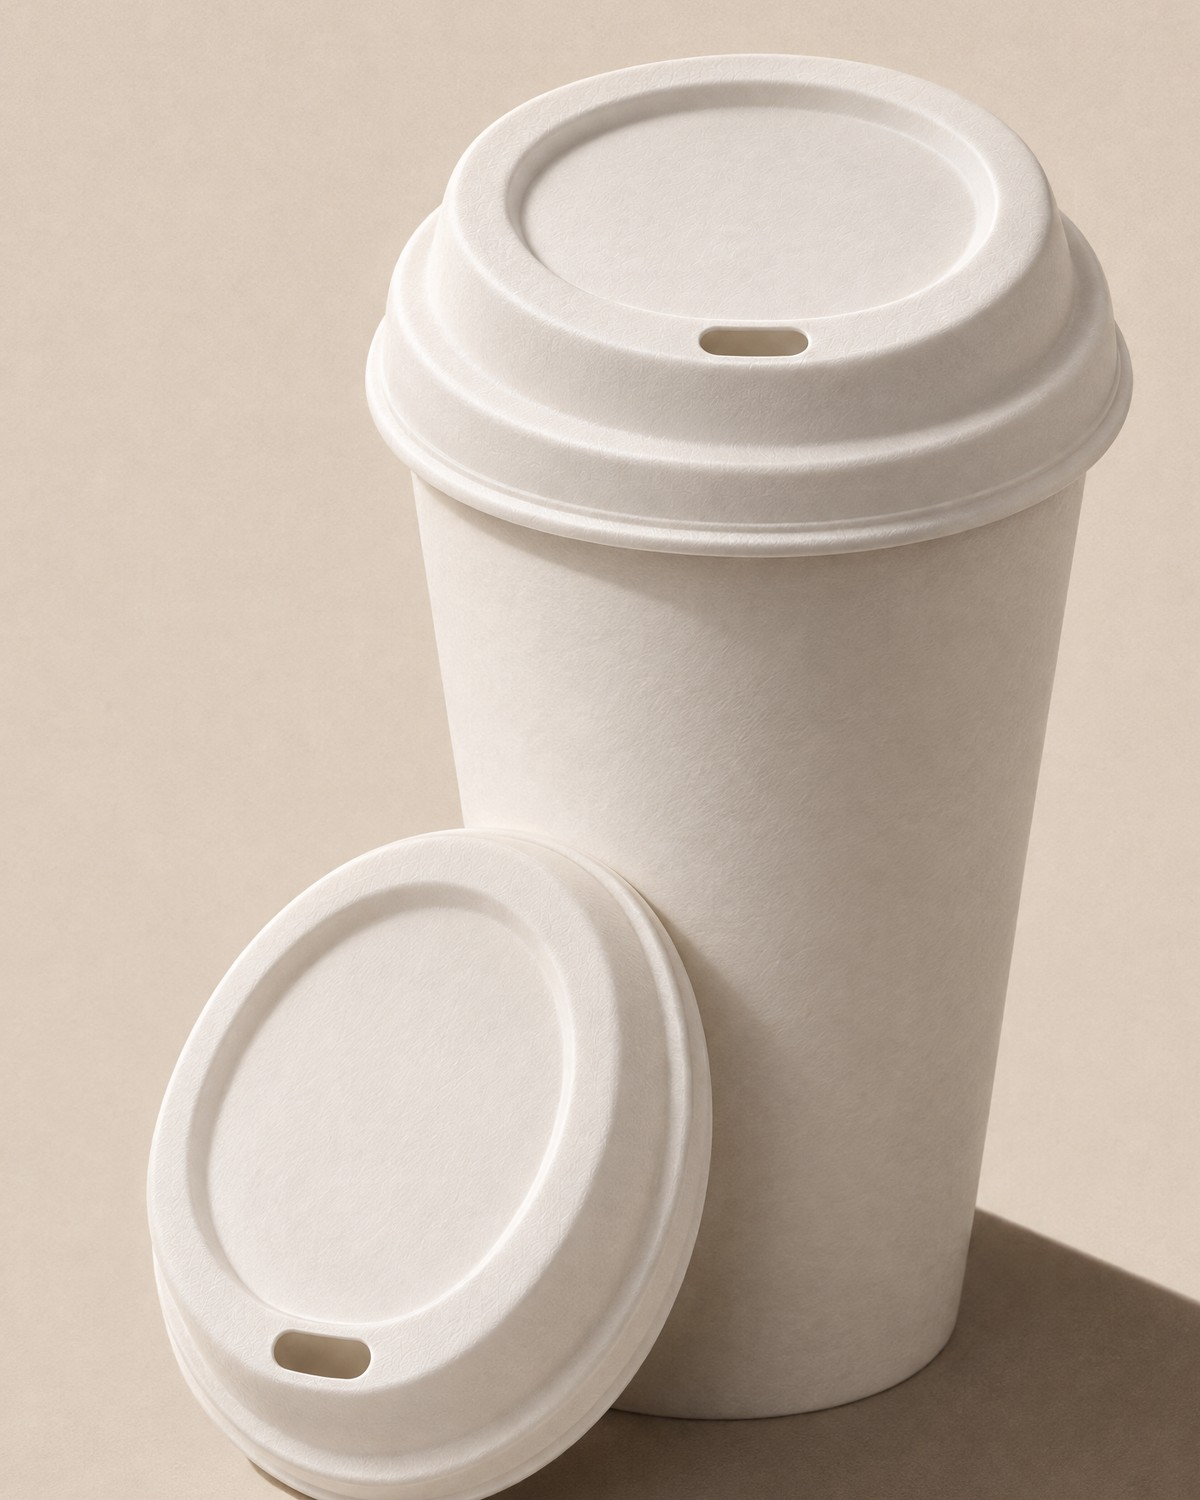
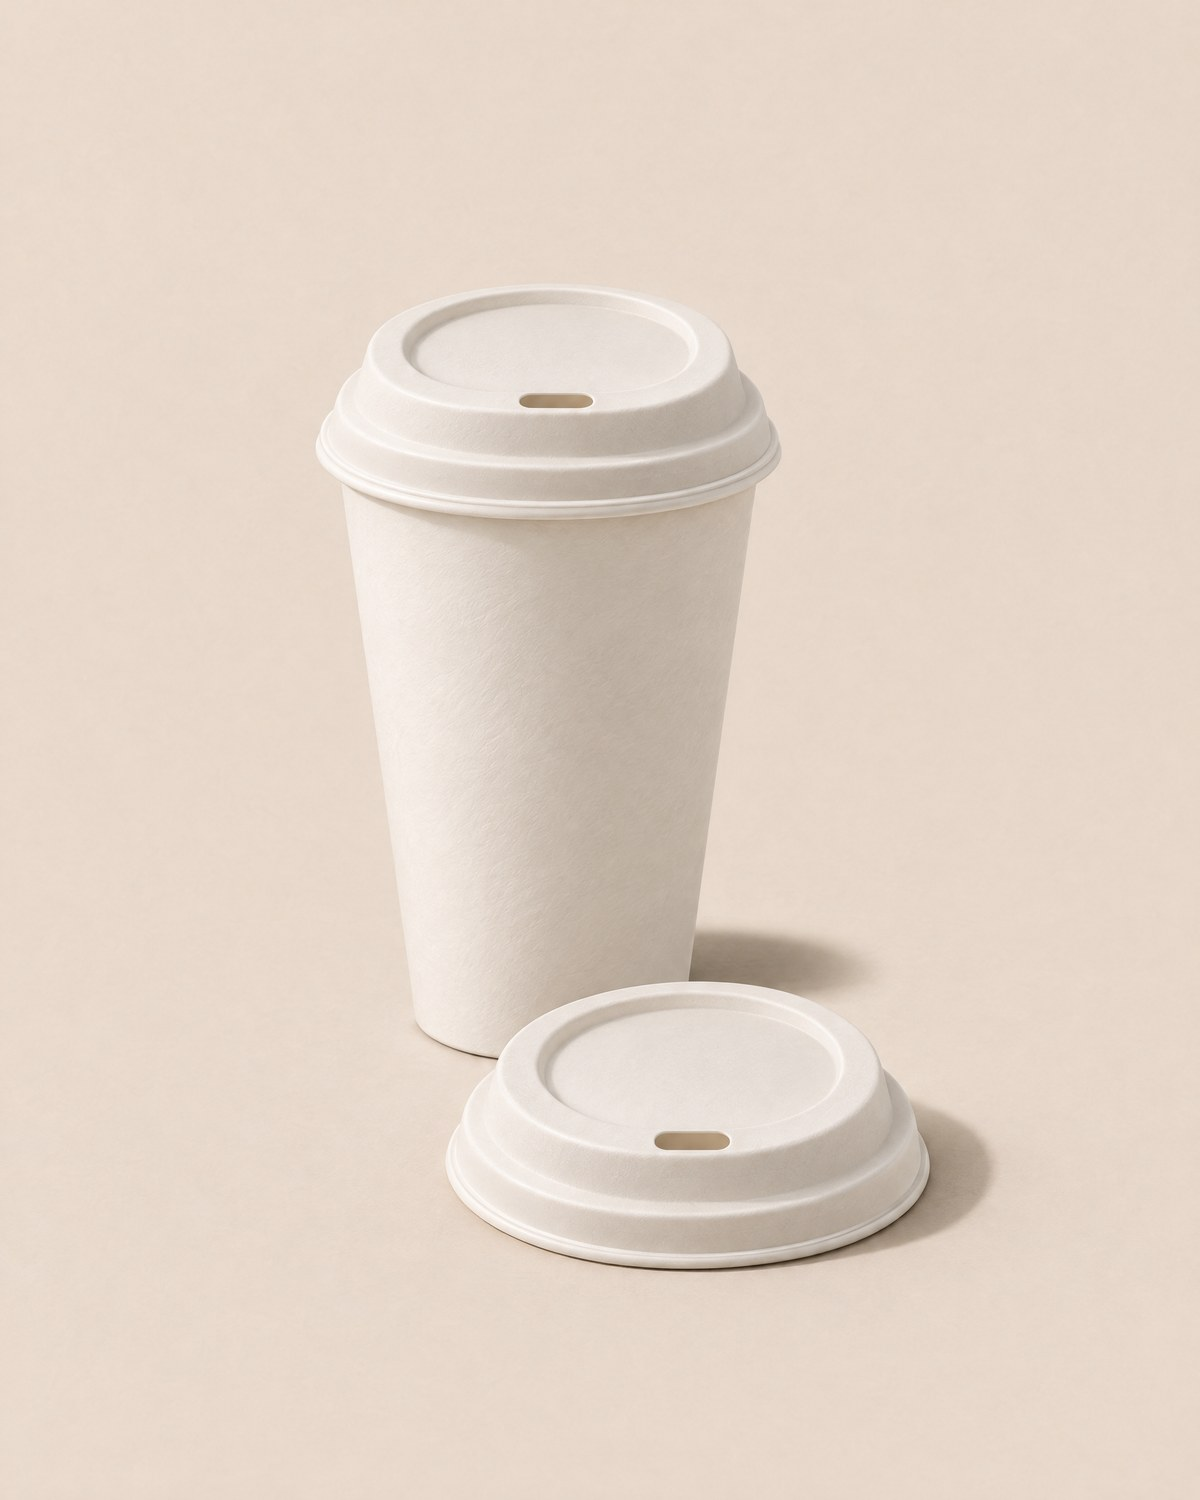
Brand card: regenerated product photography with the subject centred and short shadows (hero lineup, front pairs, lid pair, standing cups)

diff --git a/CLAUDE.md b/CLAUDE.md
@@ -1,6 +1,6 @@
 # Made to Disappear site
 
-- Brand card (branch brand-card, 2026-11-12/13): docs/brand/brand-card-2026-11-12.md records the design card the user supplied in chat (the PDF was not saved) and asked to be applied to the whole site; it supersedes the colour and type guidance in docs/brand-card.md (routes, data model and claims rules there still apply). Palette: bone #EDE8DF page ground, paper #F6F2EB cards/inputs/image wells, ink #111111 text and primary buttons, soil #2A2420 the one dark band per page (the footer), stone #6B675F secondary text, ash #8B877F disabled/coming-soon/borders only, raw bamboo #C4A672 only as a left rule on notes (`.note`). The old token names in globals.css (`--color-forest`, `--color-cream`, `--color-mint`, `--color-sage`, `--color-clay`…) are kept so every utility still works, each remapped to a card colour; a "Brand card layer" at the end of globals.css overrides components: square corners everywhere except `.btn`/`.chip` (a `[class*="rounded-["]` override), no shadows/gradients/glass/mesh/grain, `.card` paper with a hairline and colour-only hover, outlined chips in lowercase, ink primary button + outlined others (one primary per screen; the header button is outlined), `.btn` and nav lowercase via text-transform, headings always ink, `.price-table`/`.spec-table` hairline rows with an ink rule under the header row, `.max-w-7xl` capped at 1120 px with 28 px gutters, Reveal fades only (200 ms), Marquee static. Type: Helvetica Neue / Arial system stack via `--font-display/--font-serif/--font-sans` (no Google fonts; JetBrains Mono stays for SKUs); .t-hero 72/1/700/-0.04em, .t-section 40, .t-page/.t-heading 26, .t-card 19, .t-lead 20/500, .t-label 11.5 caps stone. Headings are lowercase with a period in the copy itself (acronyms stay); PageHeader titles and most h2s were lowercased on 2026-11-13. Home page: hero (product on bone, headline "serve it. then let it go.", one primary + a text link, a hairline fact list), then numbered sections 01 the range (hairline product grid), 02 paper outside. PHA inside. (soil photo + hairline spec list), 03 after the coffee. (breakdown strip + three hairline columns), 04 what it costs. (CostCalculator, hairline receipt), 05 the Inner Harbour (desaturated photo + hairline stats), 06 asked often.; the footer is the only soil band and carries "keep it. then let it go." Photography (2026-11-13, GPT Image 2.6 via Higgsfield from the renders and the badge, masters in docs/brand/generated/60–65): public/hero-bone.jpg (16:9), `[sku]-front.jpg` the 4:5 pair with the base mark, `[sku]-3q.jpg` single standing cups cropped from one three-cup frame, lid front/3q; all on bone #EDE8DF with one hard light and a real shadow. ProductImage frames are 4:5 object-cover. public/icon.png and apple-icon.png are the card's favicon: an ink dot on bone, low and right.  Interaction layer (2026-11-13, after the user said the photos were off-centre and the site had no features): every product photo was re-cropped so the cup bodies (not the shadows) sit at the centre of the 4:5 frame; hero-bone.jpg and soil-mark.jpg are Higgsfield outpaints of the originals (masters 71/72) with the subject centred, and public/breakdown/1–4.jpg are 4:5 cuts of the 4k-upscaled strip (master 73). The header is transparent until the page scrolls (ScrollState sets data-scrolled; the brand layer then paints it bone with a hairline). Home page: editorial hero (headline left, lead + buttons right, the lineup full width, three facts on a hairline), section numbers pin while their section scrolls (.section-num), SectionRail is a fixed 01–06 index in the left gutter at ≥1360 px, HoverSwap fades product tiles and cards to the standing `-3q` shot on hover (Product.hover from withAssets), BreakdownScrubber is the four-frame well you drag across or pick a stage from (it steps through once on arrival, then only moves when moved), CountUp counts the survey percentages in. All fades, nothing slides. Harnesses: scratchpad hovershot.mjs (hover + screenshot) and scrollshot.mjs. The older passes live on branches calmer-register and draft-blend; the user's standing rules from them still hold (no "per SKU", flat 16/17/18¢ pricing, Learn library, cost calculator as a sentence + receipt).
+- Brand card (branch brand-card, 2026-11-12/13): docs/brand/brand-card-2026-11-12.md records the design card the user supplied in chat (the PDF was not saved) and asked to be applied to the whole site; it supersedes the colour and type guidance in docs/brand-card.md (routes, data model and claims rules there still apply). Palette: bone #EDE8DF page ground, paper #F6F2EB cards/inputs/image wells, ink #111111 text and primary buttons, soil #2A2420 the one dark band per page (the footer), stone #6B675F secondary text, ash #8B877F disabled/coming-soon/borders only, raw bamboo #C4A672 only as a left rule on notes (`.note`). The old token names in globals.css (`--color-forest`, `--color-cream`, `--color-mint`, `--color-sage`, `--color-clay`…) are kept so every utility still works, each remapped to a card colour; a "Brand card layer" at the end of globals.css overrides components: square corners everywhere except `.btn`/`.chip` (a `[class*="rounded-["]` override), no shadows/gradients/glass/mesh/grain, `.card` paper with a hairline and colour-only hover, outlined chips in lowercase, ink primary button + outlined others (one primary per screen; the header button is outlined), `.btn` and nav lowercase via text-transform, headings always ink, `.price-table`/`.spec-table` hairline rows with an ink rule under the header row, `.max-w-7xl` capped at 1120 px with 28 px gutters, Reveal fades only (200 ms), Marquee static. Type: Helvetica Neue / Arial system stack via `--font-display/--font-serif/--font-sans` (no Google fonts; JetBrains Mono stays for SKUs); .t-hero 72/1/700/-0.04em, .t-section 40, .t-page/.t-heading 26, .t-card 19, .t-lead 20/500, .t-label 11.5 caps stone. Headings are lowercase with a period in the copy itself (acronyms stay); PageHeader titles and most h2s were lowercased on 2026-11-13. Home page: hero (product on bone, headline "serve it. then let it go.", one primary + a text link, a hairline fact list), then numbered sections 01 the range (hairline product grid), 02 paper outside. PHA inside. (soil photo + hairline spec list), 03 after the coffee. (breakdown strip + three hairline columns), 04 what it costs. (CostCalculator, hairline receipt), 05 the Inner Harbour (desaturated photo + hairline stats), 06 asked often.; the footer is the only soil band and carries "keep it. then let it go." Photography (2026-11-13, GPT Image 2.6 via Higgsfield from the renders and the badge, masters in docs/brand/generated/60–65): public/hero-bone.jpg (16:9), `[sku]-front.jpg` the 4:5 pair with the base mark, `[sku]-3q.jpg` single standing cups cropped from one three-cup frame, lid front/3q; all on bone #EDE8DF with one hard light and a real shadow. ProductImage frames are 4:5 object-cover. public/icon.png and apple-icon.png are the card's favicon: an ink dot on bone, low and right.  Interaction layer (2026-11-13, after the user said the photos were off-centre and the site had no features): the product photography was regenerated on 2026-11-13 with the subject dead centre and a short soft shadow (GPT Image 2.6, masters docs/brand/generated/80–87: hero lineup, three front pairs, lid pair, three standing cups; visual mass measured within 5% of centre with the scratchpad measure.py); re-cropping the first set never looked centred because the long hard shadows ran to one edge. soil-mark.jpg is a Higgsfield outpaint of the original (master 72), and public/breakdown/1–4.jpg are 4:5 cuts of the 4k-upscaled strip (master 73). The header is transparent until the page scrolls (ScrollState sets data-scrolled; the brand layer then paints it bone with a hairline). Home page: editorial hero (headline left, lead + buttons right, the lineup full width, three facts on a hairline), section numbers pin while their section scrolls (.section-num), SectionRail is a fixed 01–06 index in the left gutter at ≥1360 px, HoverSwap fades product tiles and cards to the standing `-3q` shot on hover (Product.hover from withAssets), BreakdownScrubber is the four-frame well you drag across or pick a stage from (it steps through once on arrival, then only moves when moved), CountUp counts the survey percentages in. All fades, nothing slides. Harnesses: scratchpad hovershot.mjs (hover + screenshot) and scrollshot.mjs. The older passes live on branches calmer-register and draft-blend; the user's standing rules from them still hold (no "per SKU", flat 16/17/18¢ pricing, Learn library, cost calculator as a sentence + receipt).
 - Do not mention shipping speed (no same-day, cutoffs or dispatch times) and never present the round wordmark badge as a certification mark: it is our logo, not TÜV Austria's.
 - The site never shows its own to-do list: no "pending", "TODO" or placeholder values in copy, chips, tables or the PDF. Missing data (certificate numbers, phone) is omitted, not labelled. Ask the user for it in chat instead.
 - Never use the words biodegradable, marine, ocean, landfill, municipal, green bin, eco or planet-friendly in site copy. `npm run lint:copy` enforces this and runs before every build.
